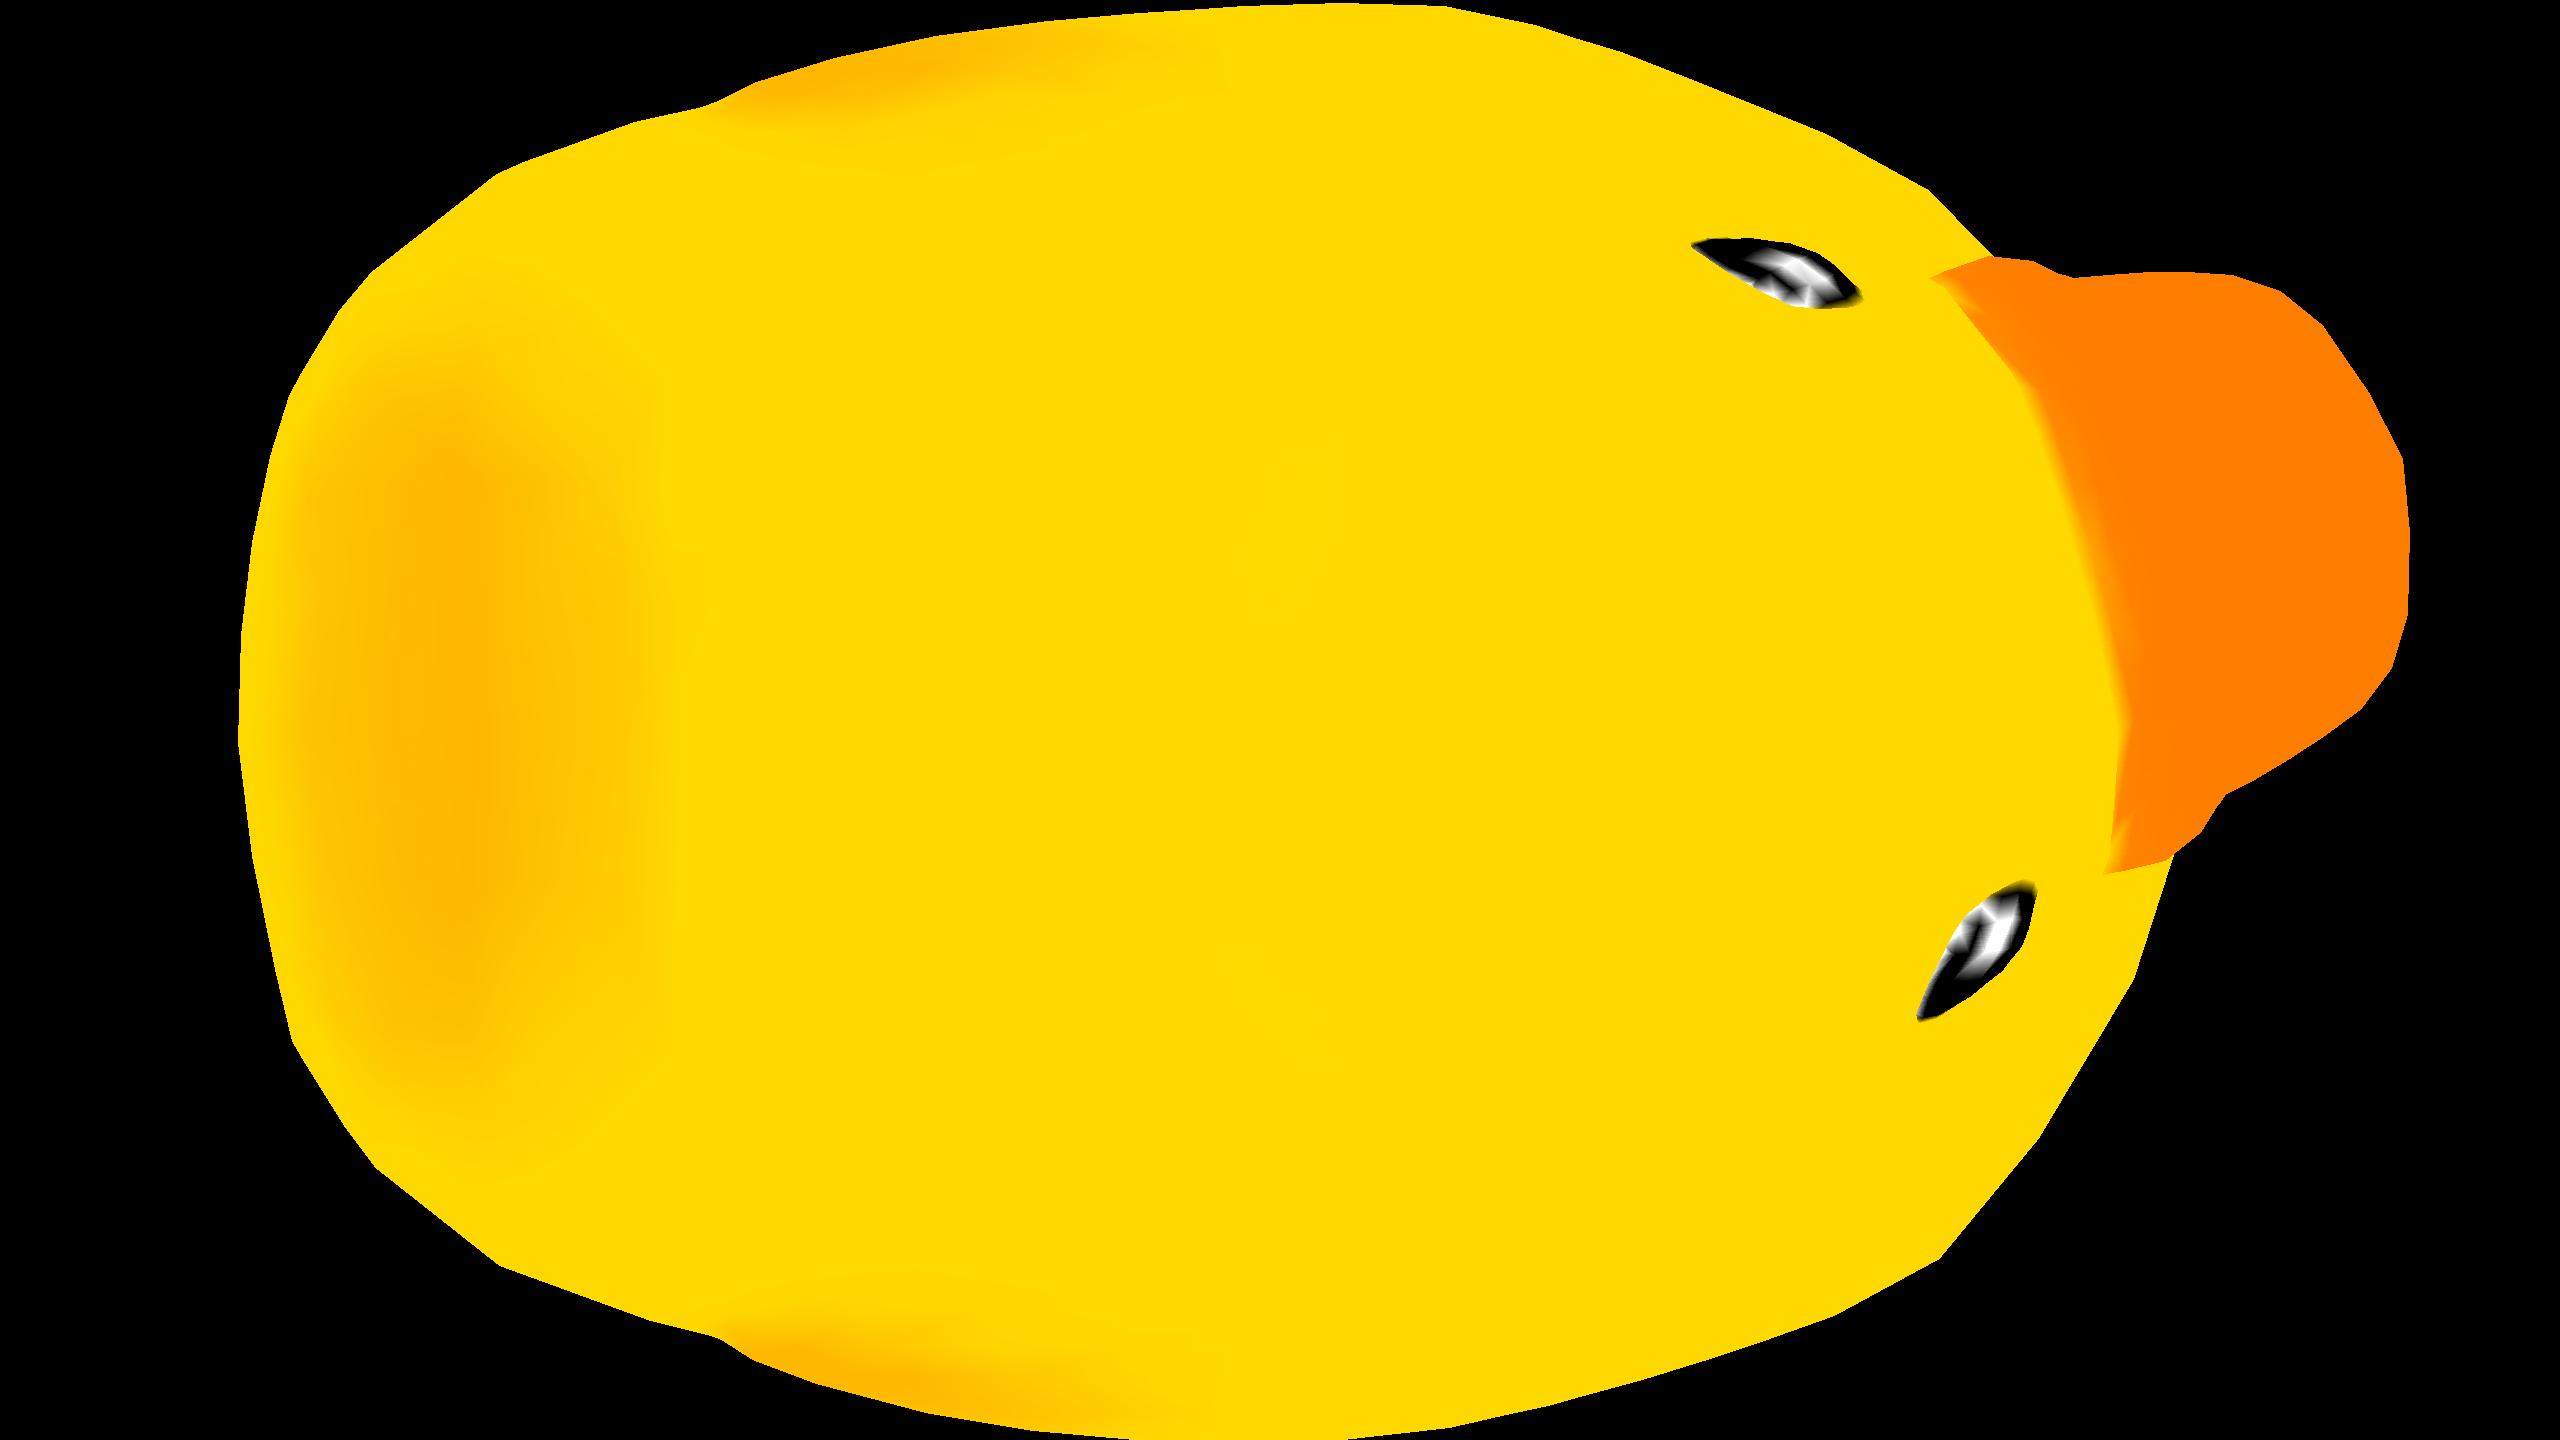
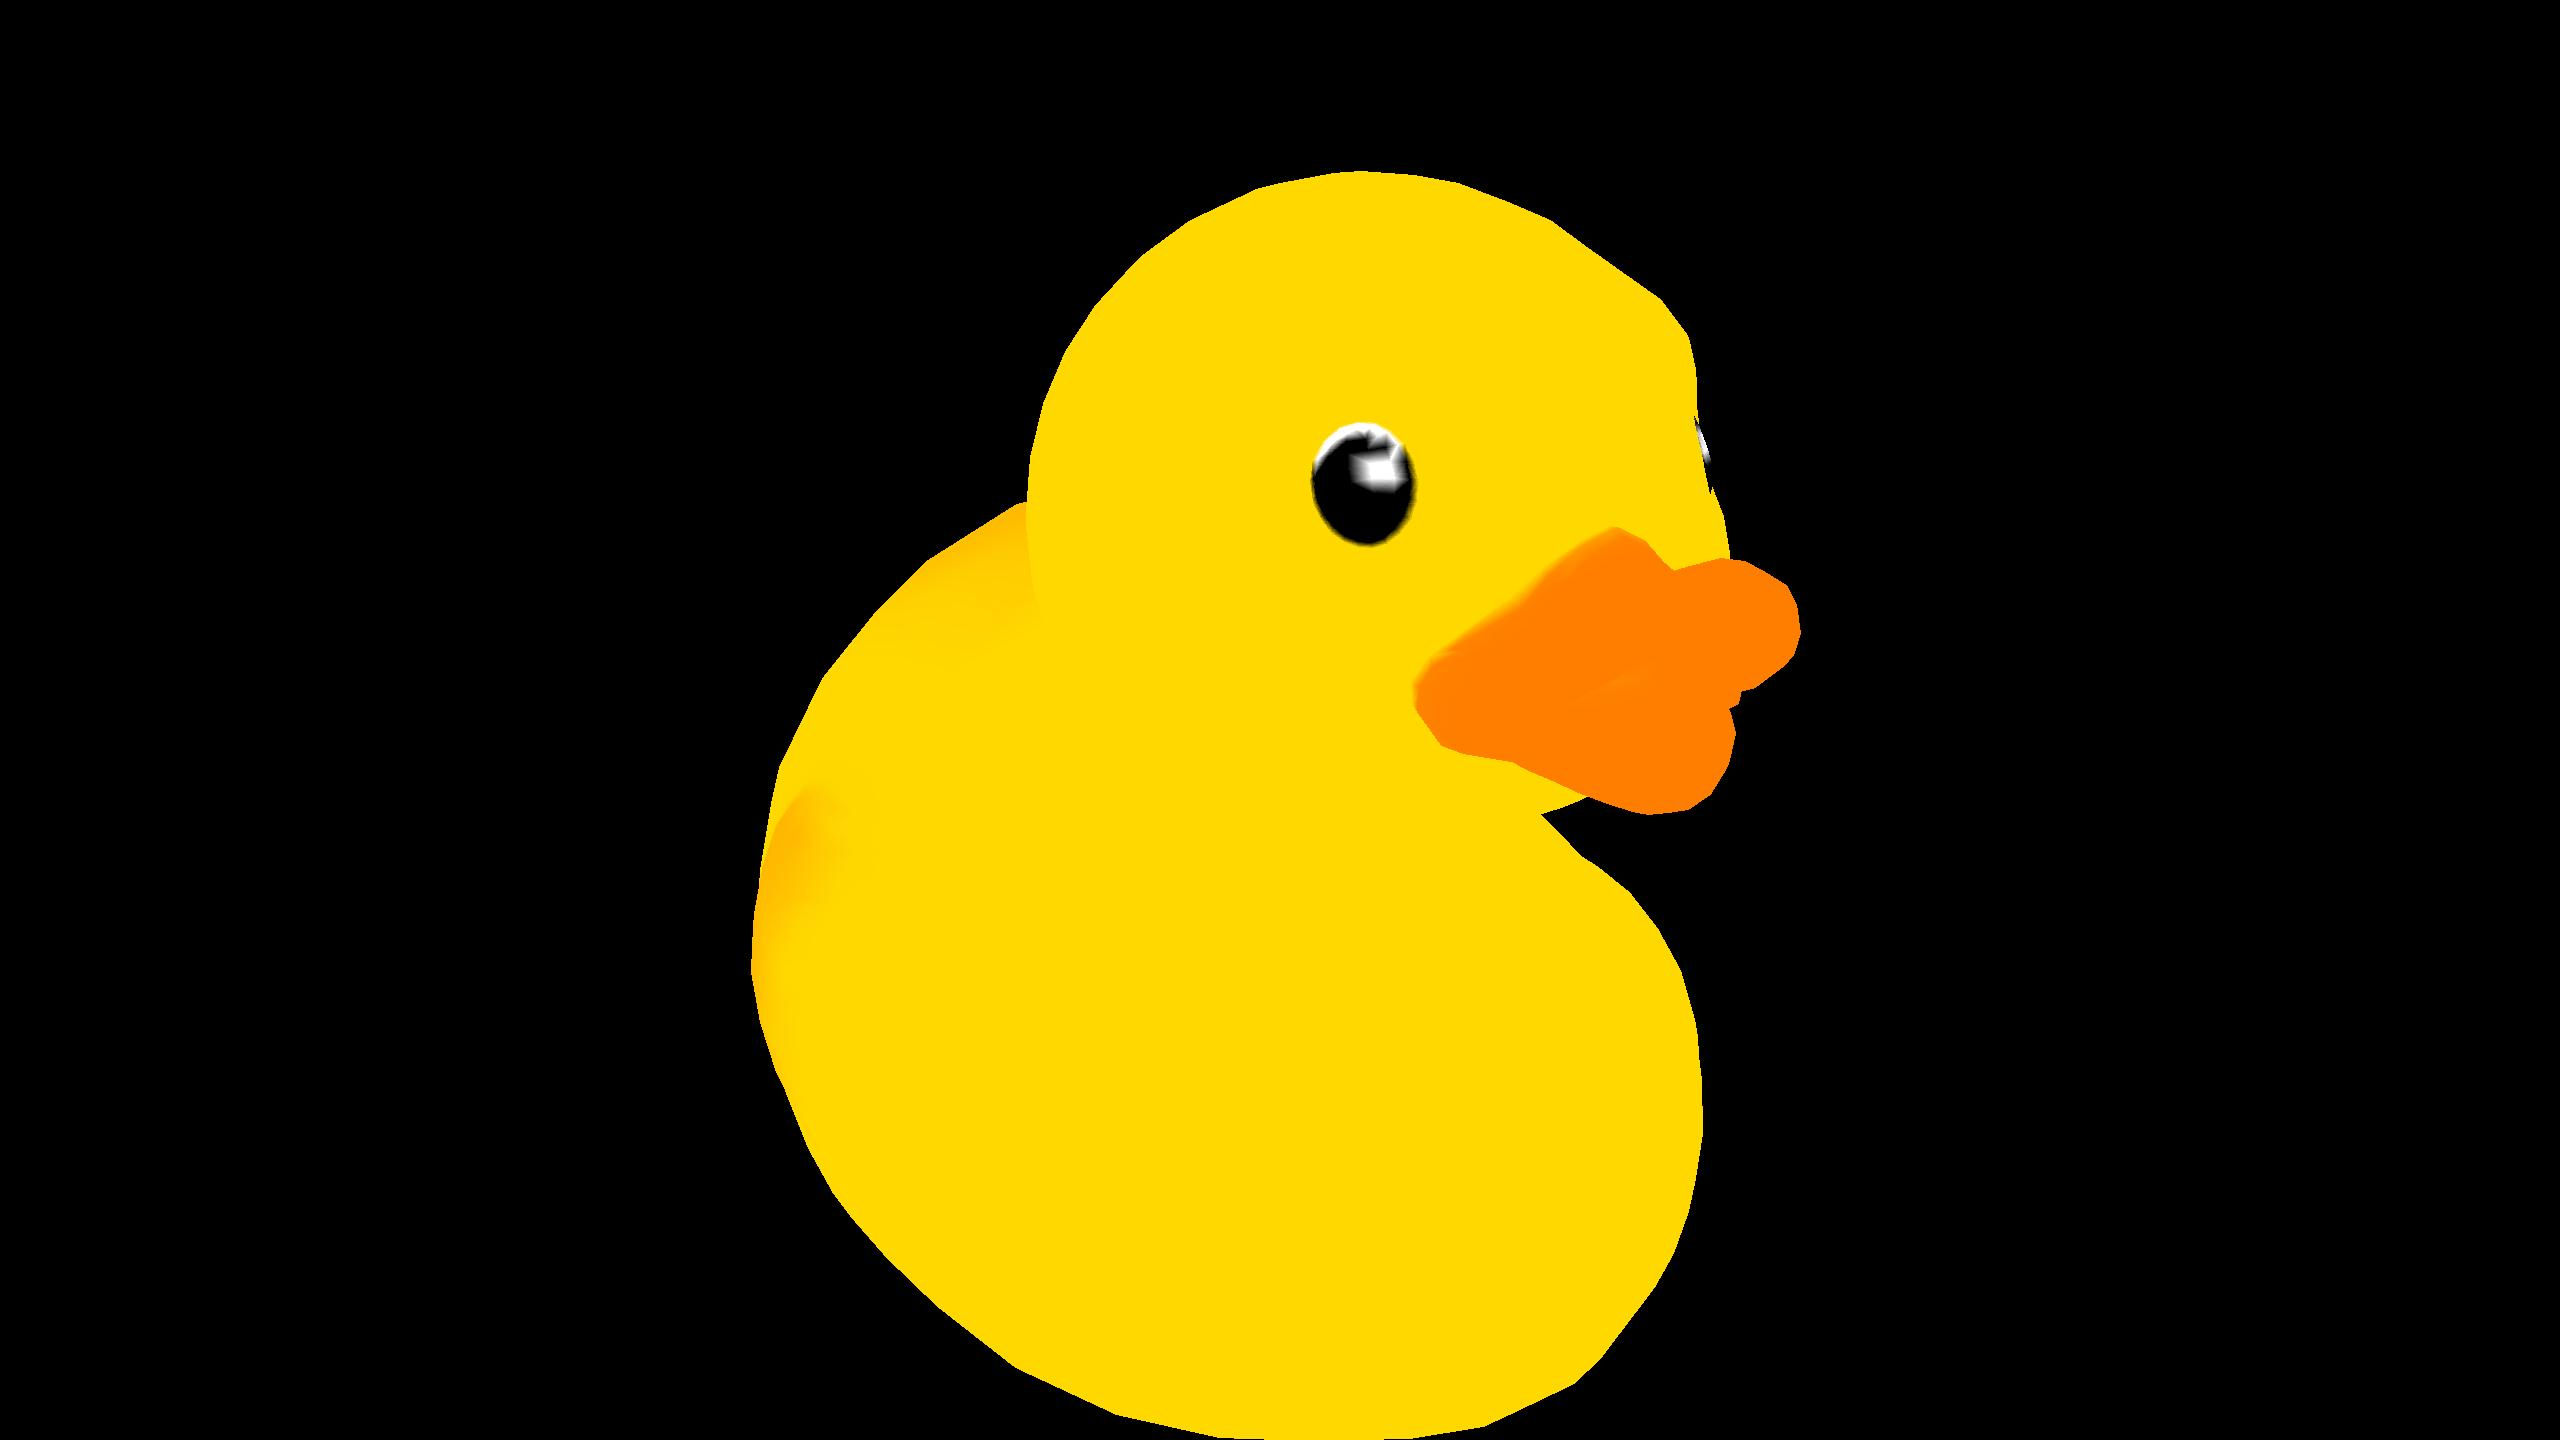
Edited Camera Class

diff --git a/Rasterizer-and-Ray-Tracer/src/main/java/Camera.java b/Rasterizer-and-Ray-Tracer/src/main/java/Camera.java
@@ -20,7 +20,37 @@ public class Camera {
 	// Rotation in y of 90 degrees
 	public float[][] Rz90 = {{0,-1,0}, 
 				 			  {1,0,0}, 
-				 			  {0,0,1}}; 
+				 			  {0,0,1}};
+	
+	// Rotation in x of 45 degrees
+	public float[][] Rx45 = {{1,0,0}, 
+							 {0,(float) Math.cos(Math.PI/4),(float) -Math.sin(Math.PI/4)}, 
+							 {0,(float) Math.sin(Math.PI/4),(float) Math.cos(Math.PI/4)}}; 
+
+	// Rotation in y of 45 degrees
+	public float[][] Ry45 = {{(float) Math.cos(Math.PI/4),0,(float) Math.sin(Math.PI/4)}, 
+							 {0,1,0}, 
+							 {(float) -Math.sin(Math.PI/4),0,(float) Math.cos(Math.PI/4)}}; 
+
+	// Rotation in y of 45 degrees
+	public float[][] Rz45 = {{(float) Math.cos(Math.PI/4),(float) -Math.sin(Math.PI/4),0}, 
+						 	 {(float) Math.sin(Math.PI/4),(float) Math.cos(Math.PI/4),0}, 
+						 	 {0,0,1}};
+	
+	// Rotation in x of 45 degrees
+		public float[][] Rx225 = {{1,0,0}, 
+								 {0,(float) Math.cos(Math.PI/8),(float) -Math.sin(Math.PI/8)}, 
+								 {0,(float) Math.sin(Math.PI/8),(float) Math.cos(Math.PI/8)}}; 
+
+		// Rotation in y of 45 degrees
+		public float[][] Ry225 = {{(float) Math.cos(Math.PI/8),0,(float) Math.sin(Math.PI/8)}, 
+								 {0,1,0}, 
+								 {(float) -Math.sin(Math.PI/8),0,(float) Math.cos(Math.PI/8)}}; 
+
+		// Rotation in y of 45 degrees
+		public float[][] Rz225 = {{(float) Math.cos(Math.PI/8),(float) -Math.sin(Math.PI/8),0}, 
+							 	 {(float) Math.sin(Math.PI/8),(float) Math.cos(Math.PI/8),0}, 
+							 	 {0,0,1}};
 		
 	// Flip
 	public float[][] RF = {{1,0,0}, 
@@ -105,7 +135,7 @@ public class Camera {
 		float width2d = 2*Math.max(maxX, Math.abs(minX));
 		float height2d = 2*Math.max(maxY, Math.abs(minY));
 		
-		if (width2d < height2d) {
+		if (width < height) {
 			this.f = (width/width2d);
 		}
 		else {

diff --git a/Rasterizer-and-Ray-Tracer/src/main/java/ZBuffer.java b/Rasterizer-and-Ray-Tracer/src/main/java/ZBuffer.java
@@ -66,7 +66,6 @@ public class ZBuffer extends Buffer {
 				}
 			}
 		}
-		max = max-min;
 		
 		byte[] databuffer = ((DataBufferByte)zBuffer.getRaster().getDataBuffer()).getData();
 		
@@ -78,7 +77,7 @@ public class ZBuffer extends Buffer {
 				else {
 					// Z value divided by max value to get val between 0 and 1
 					// Invert so when val = 1 it becomes 0 (want far away to be black = 0)
-					databuffer[(y*width)+x] = (byte) (((((buffer[y][x]-min)/max)-1f)*-1f)*255f);
+					databuffer[(y*width)+x] = (byte) (((((buffer[y][x]-min)/(max-min))-1f)*-1f)*255f);
 				}
 			}
 		}

diff --git a/Rasterizer-and-Ray-Tracer/src/main/java/Rasterizer.java b/Rasterizer-and-Ray-Tracer/src/main/java/Rasterizer.java
@@ -44,7 +44,7 @@ public class Rasterizer {
 			 *				 CHANGE CAMERA ROTATIONS HERE
 			 * 
 			 ************************************************************/
-//			camera.setR(camera.Rx90);
+			camera.setR(camera.matMul(camera.matMul(camera.Ry45, camera.Ry225), camera.Rz225));
 			
 			camera.calibrate(object.getPoints(), imageBuffer.getWidth(), 
 					imageBuffer.getHeight(), true);
